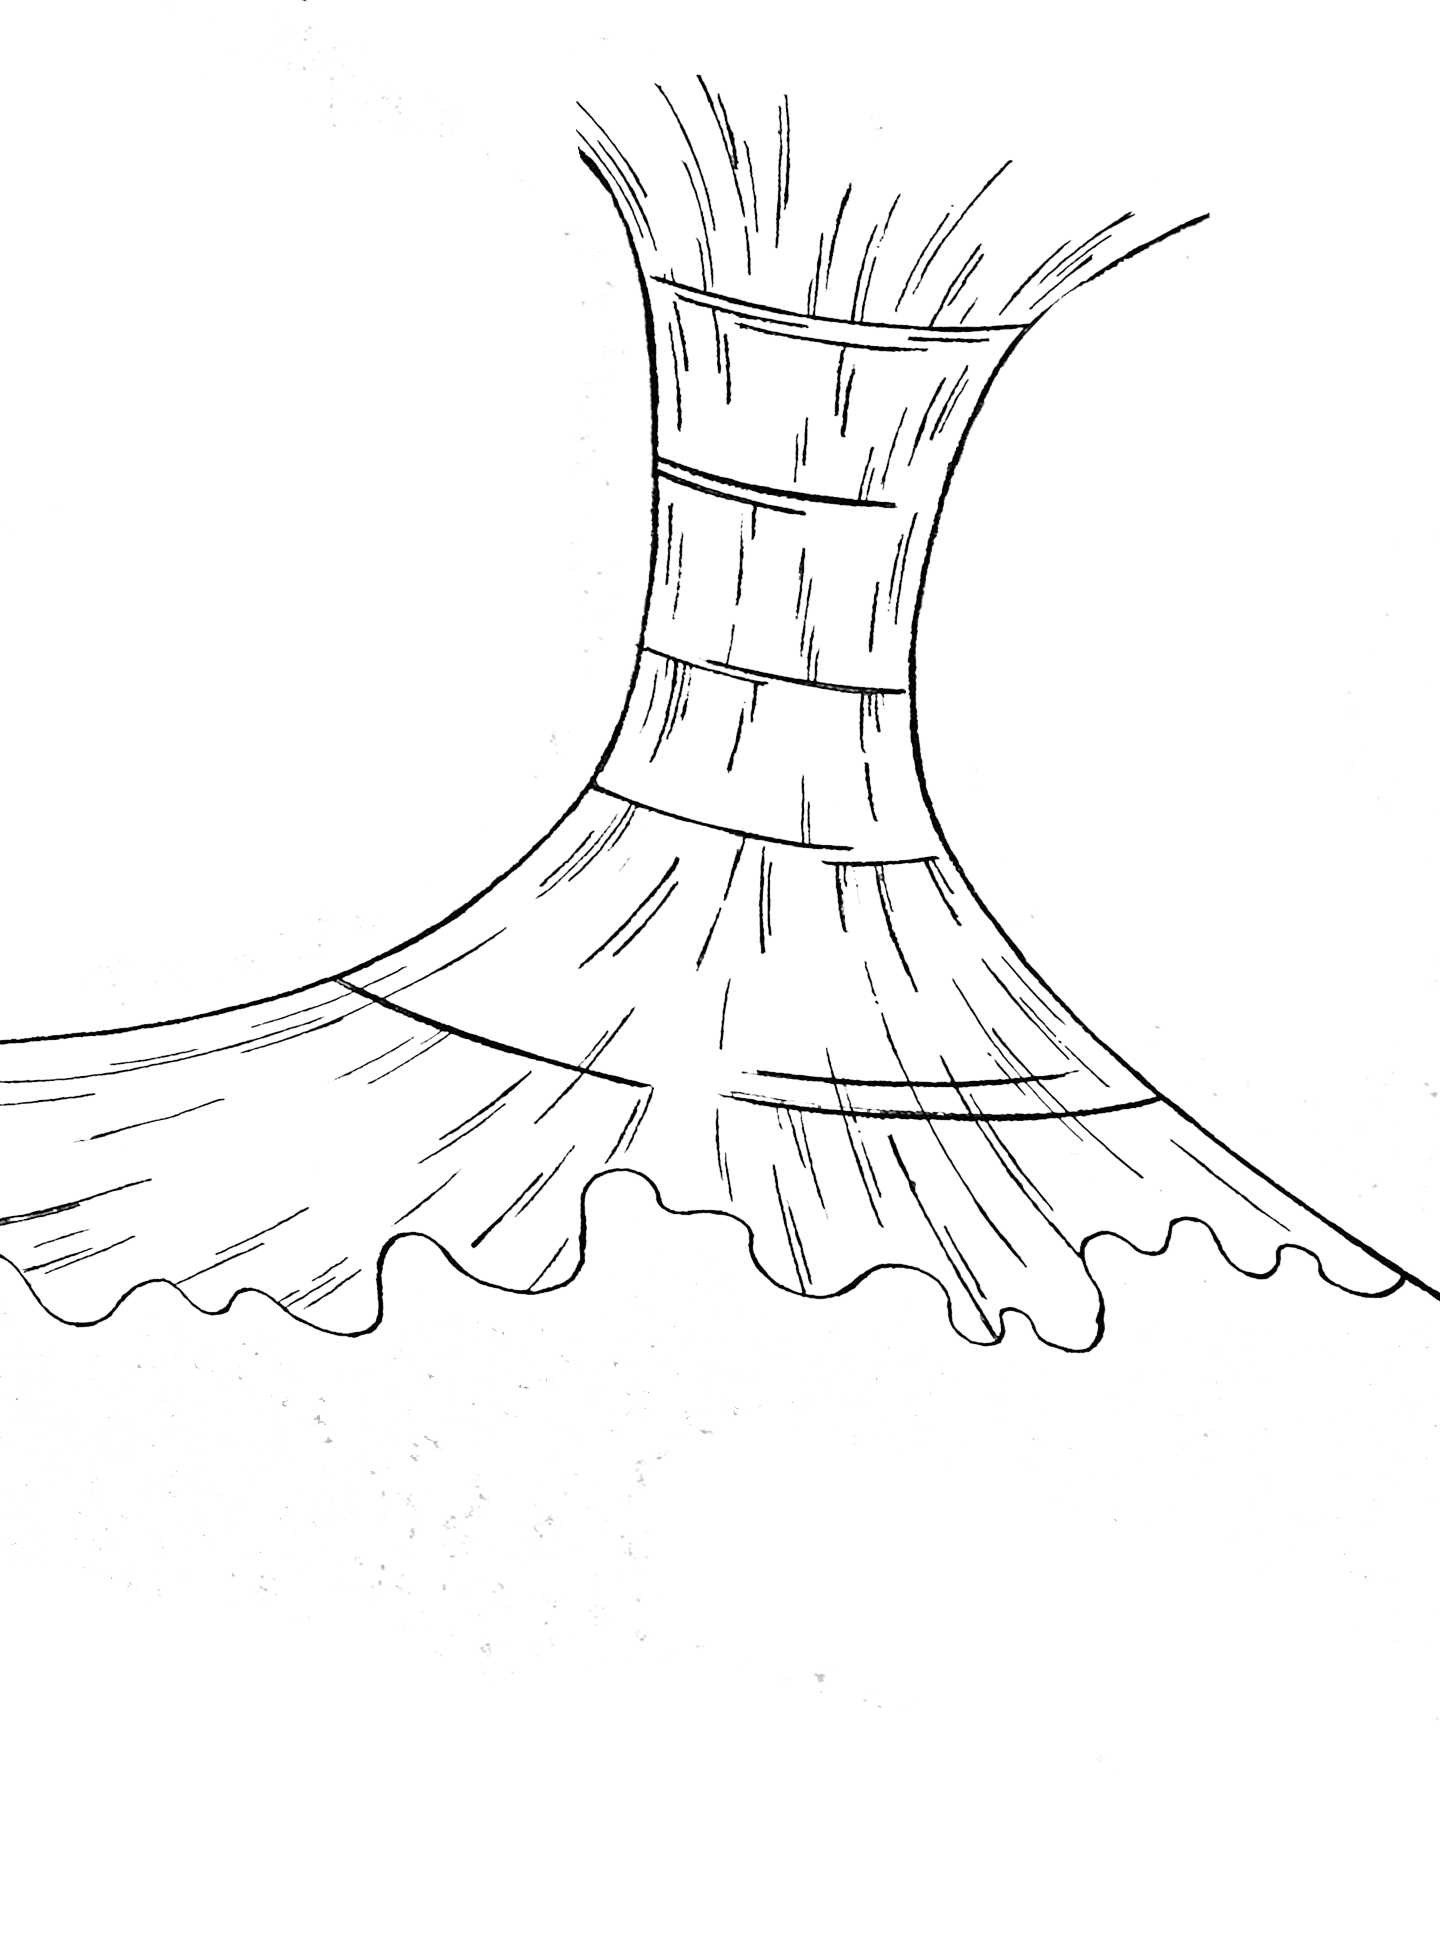
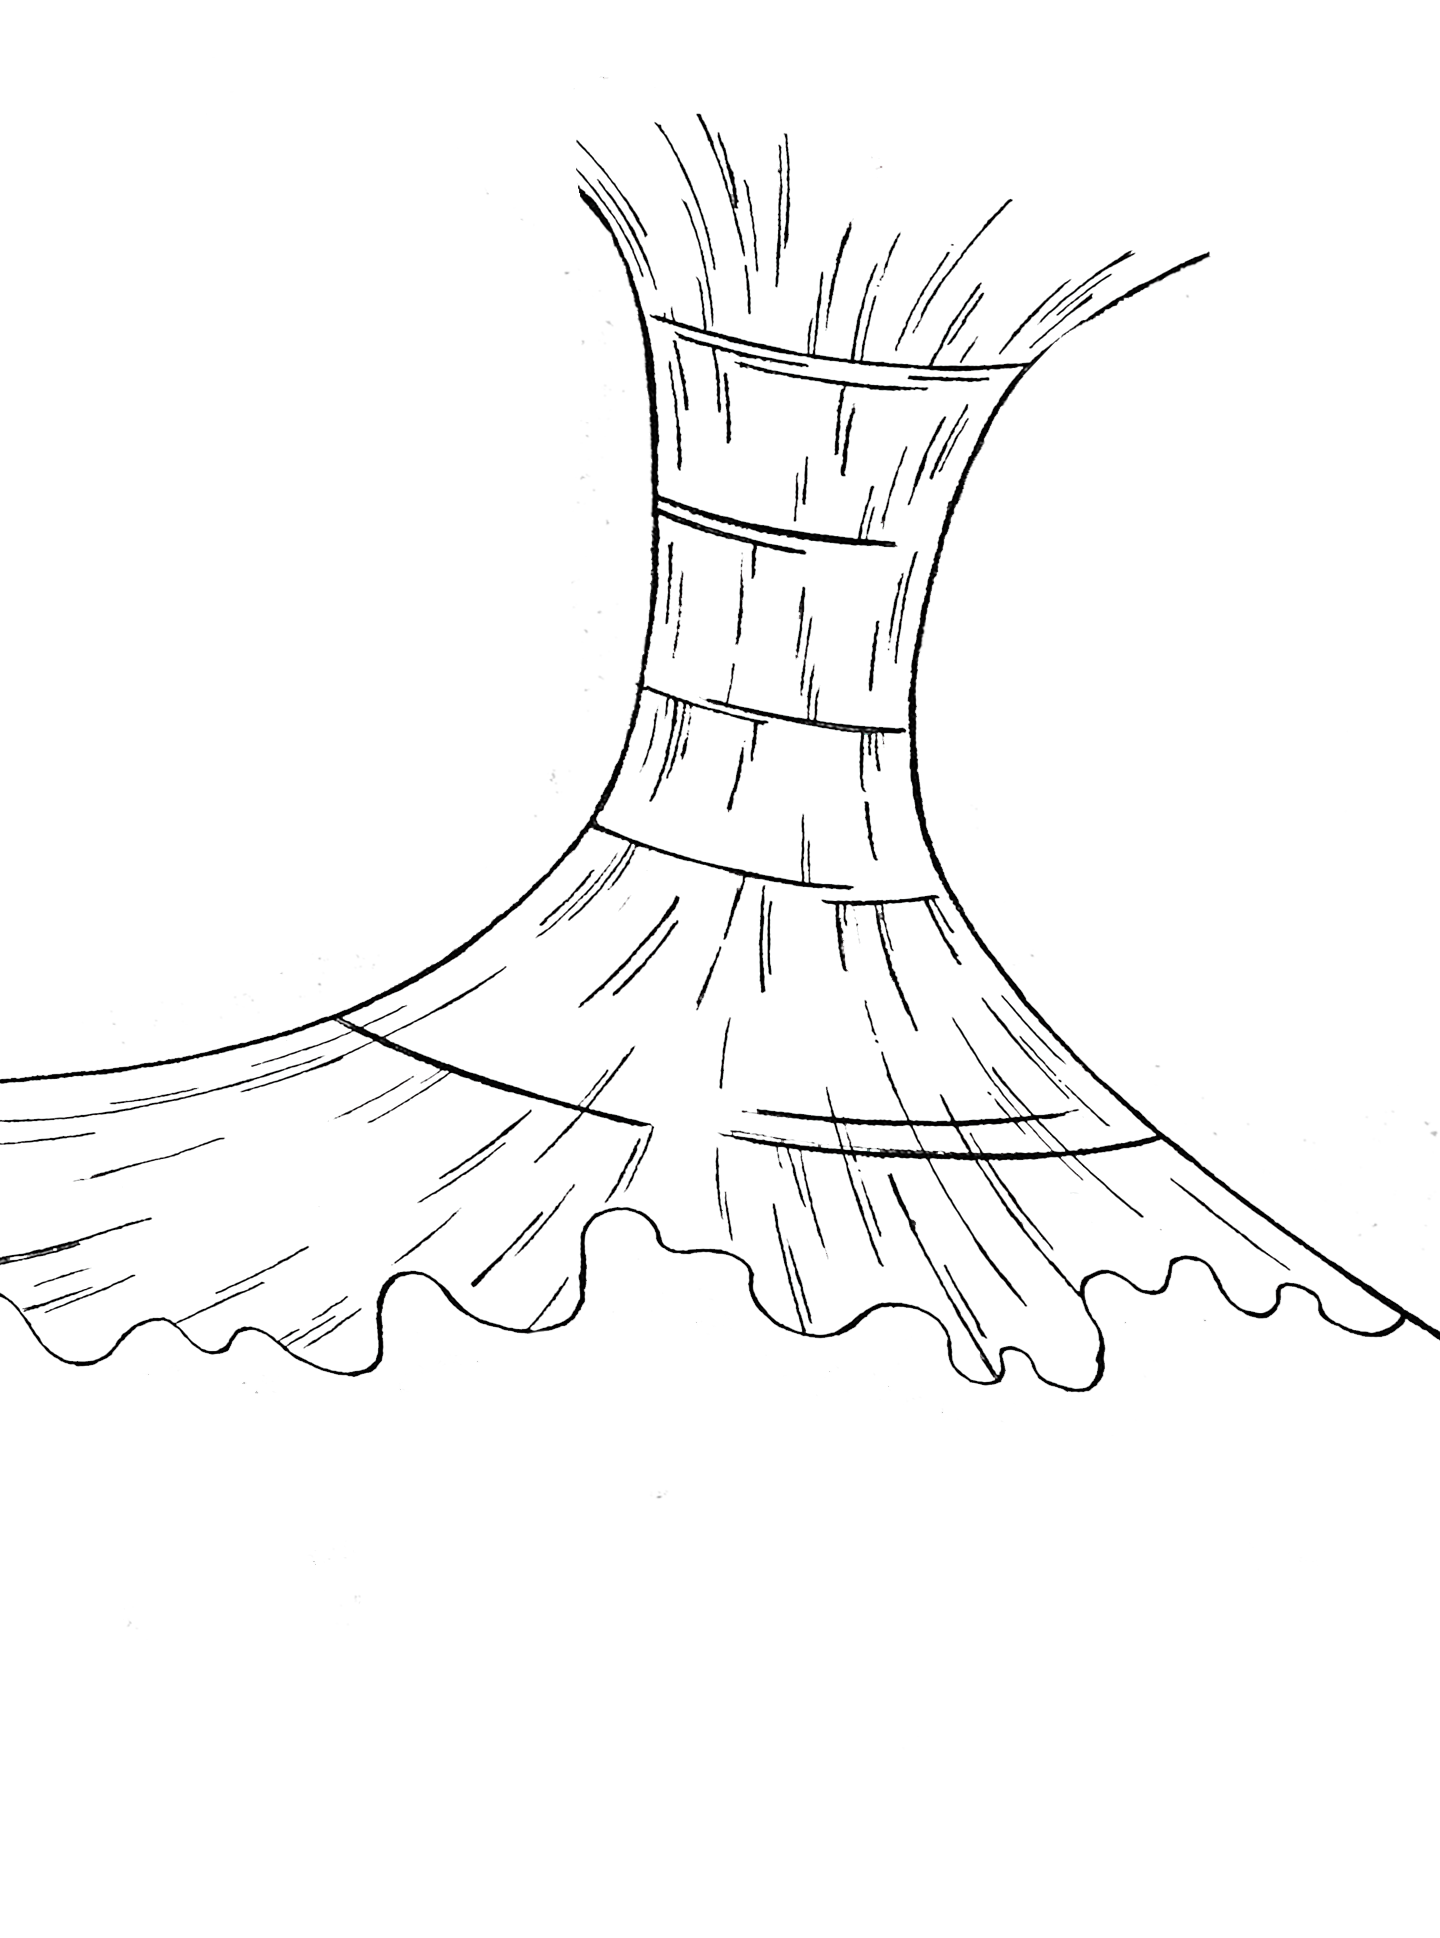
tunnel 3 update

Changed region(s): [[0.0, 0.031, 1.0, 0.7121]]

diff --git a/media/sass/main_longbkgtest.scss b/media/sass/main_longbkgtest.scss
@@ -329,19 +329,23 @@ header{
 	.frame--planet2{
 		position: absolute;
 		top: 550%;
-		right: -150px;
-		z-index: 30;
+		right: 0px;
+		width: 1440px;
+	    height: 1938px;
+	    z-index: 30;
+	    overflow: hidden;
+
 		.planet2-bkg{
 			position: absolute;
 			top: 28px;
-		    right: -70px;
+		    right: -270px;
 		    width: 1440px;
 		    height: auto;
 		}
 		.planet2-fg{
 			position: absolute;
 		    top: 86px;
-    		right: 39px;
+    		right: -165px;
 		    width: 1440px;
 		    height: auto;
 		    transition-duration: 1s;
@@ -355,7 +359,7 @@ header{
 	.clouds{
 		position: absolute;
 		top: 615%;
-    	right: -115px;
+    	right: 0px;
  	    width: 1440px;
  	    height: 1232px;
 		z-index: 35;
@@ -363,6 +367,7 @@ header{
 		overflow: hidden;
 		.cloud {
 			position: absolute;
+			right: -100px;
 			width: 1440px;
 			height: auto;
 			transition: all .2s ease-out;
@@ -370,6 +375,29 @@ header{
 			//z-index: 35;
 		}
 	}
+}
+.tunnel-three{
+    position: absolute;
+    top: 700%;
+    left: 0;
+    .layer{
+    	position: absolute;
+
+    	.tunnel-overlay-three{
+    		position: absolute;
+    	    height: 1938px;
+    		width: 1440px;
+    		z-index: 25;
+    		overflow: hidden;
+		}
+		.tunnel__stars-three{
+			position: absolute;
+    	    height: 1440px;
+    		width: 1440px;
+    		z-index: 20;
+		}
+    }
+
 }
 
 .back-to-top{

diff --git a/media/css/main_longbkgtest.css b/media/css/main_longbkgtest.css
@@ -324,14 +324,17 @@ header {
 .planet2 .frame--planet2 {
   position: absolute;
   top: 550%;
-  right: -150px;
+  right: 0px;
+  width: 1440px;
+  height: 1938px;
   z-index: 30;
+  overflow: hidden;
 }
 
 .planet2 .frame--planet2 .planet2-bkg {
   position: absolute;
   top: 28px;
-  right: -70px;
+  right: -270px;
   width: 1440px;
   height: auto;
 }
@@ -339,7 +342,7 @@ header {
 .planet2 .frame--planet2 .planet2-fg {
   position: absolute;
   top: 86px;
-  right: 39px;
+  right: -165px;
   width: 1440px;
   height: auto;
   transition-duration: 1s;
@@ -349,7 +352,7 @@ header {
 .planet2 .clouds {
   position: absolute;
   top: 615%;
-  right: -115px;
+  right: 0px;
   width: 1440px;
   height: 1232px;
   z-index: 35;
@@ -359,10 +362,36 @@ header {
 
 .planet2 .clouds .cloud {
   position: absolute;
+  right: -100px;
   width: 1440px;
   height: auto;
   transition: all .2s ease-out;
   transition-duration: 1s;
+}
+
+.tunnel-three {
+  position: absolute;
+  top: 700%;
+  left: 0;
+}
+
+.tunnel-three .layer {
+  position: absolute;
+}
+
+.tunnel-three .layer .tunnel-overlay-three {
+  position: absolute;
+  height: 1938px;
+  width: 1440px;
+  z-index: 25;
+  overflow: hidden;
+}
+
+.tunnel-three .layer .tunnel__stars-three {
+  position: absolute;
+  height: 1440px;
+  width: 1440px;
+  z-index: 20;
 }
 
 .back-to-top {

diff --git a/index__longbkgtest.html b/index__longbkgtest.html
@@ -137,6 +137,22 @@
 		</div>
 	</section>
 
+	<section class="tunnel-three">
+		<ul>
+			<li class="layer" data-depth="0.20">
+				<div class="scene3__background"></div>
+			</li>
+			<li class="layer" data-depth="0.40">
+				<img class="tunnel__stars-three" src="media/img/stars/GoldStars.png">
+			</li>
+			<li class="layer" data-depth="0.60"><img class="scene3__tunnel" src="media/img/tunnel/Tunnel3.png"></li>
+
+			<li class="layer overlay" data-depth="0.80">
+				<img class="tunnel-overlay-three" src="media/img/tunnel/OverlayTunnel3.png">
+			</li>
+		</ul>
+	</section>
+
 	
 	<div class="back-to-top">
 		<p>BACK TO</p>
